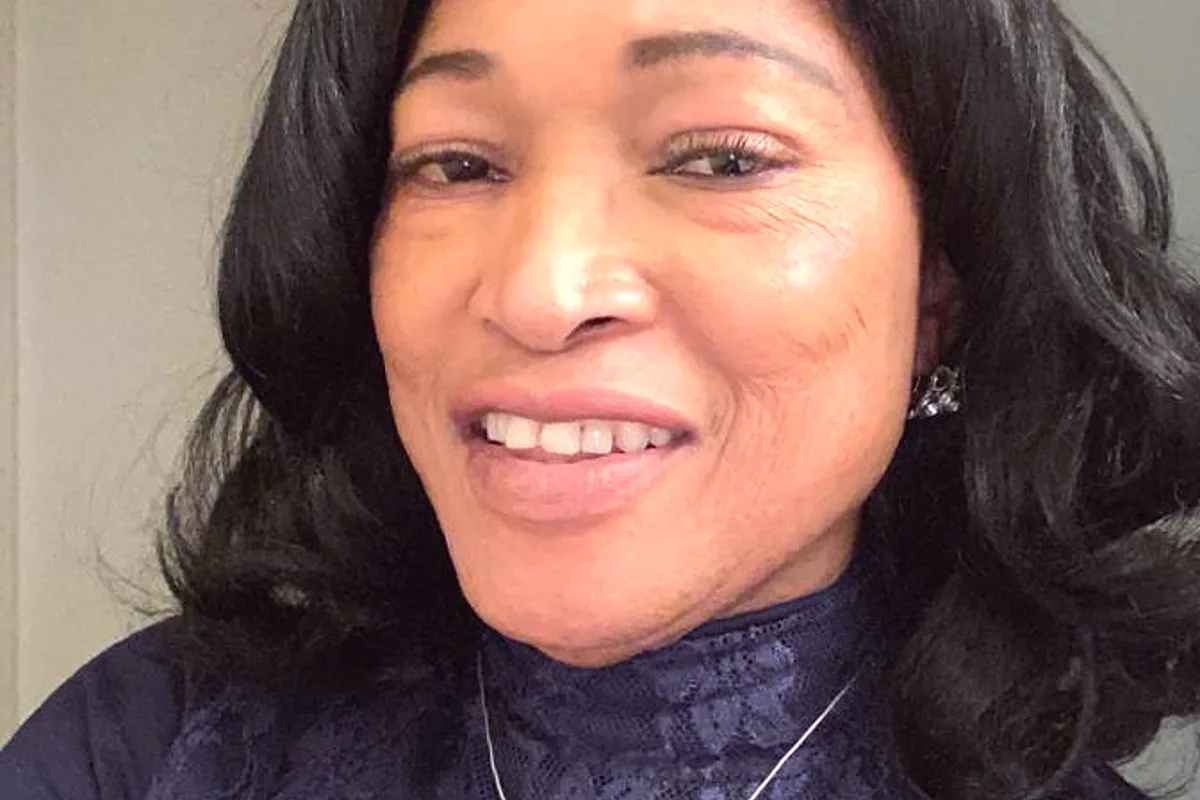
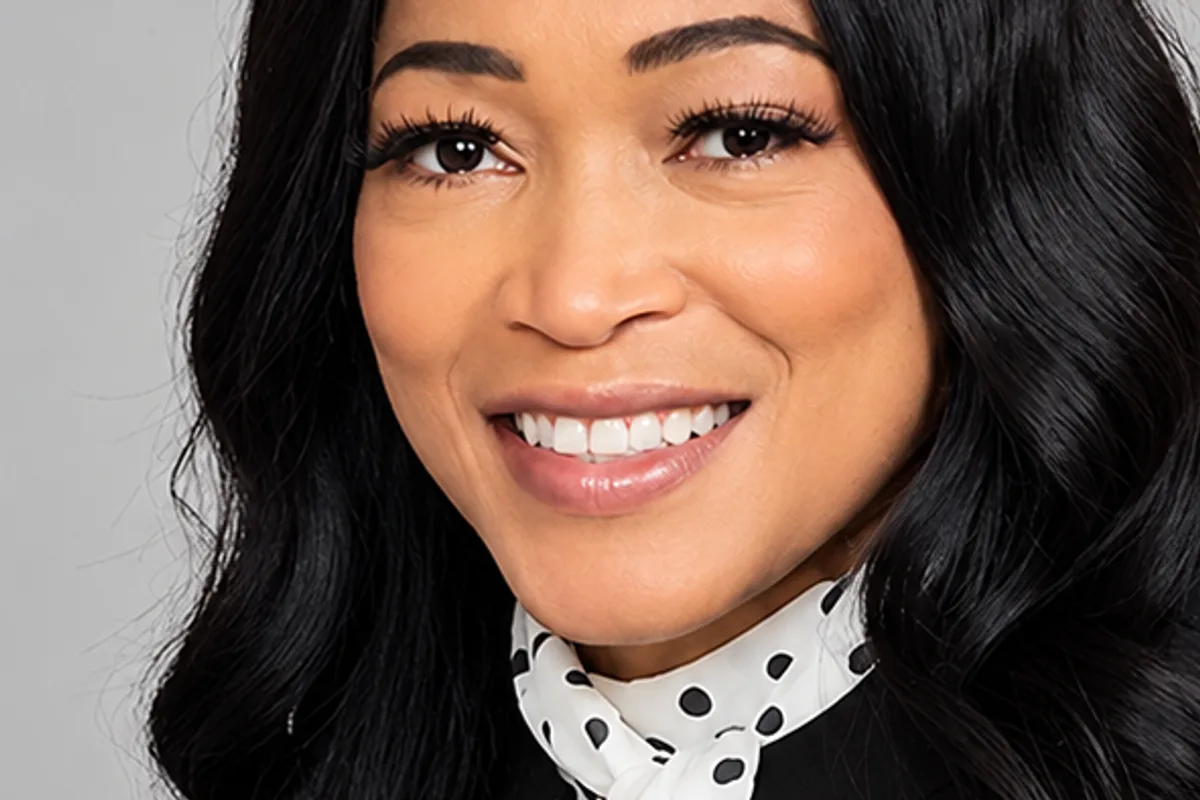
content: replace Funmilayo Whitaker's portrait with her studio photo
New 1122x1402 studio portrait supplied by the client, 2026-10-19. Replaces
the selfie in all six provider files (560/1120 squares as webp and jpg,
600/1200 3:2 cards). The cards keep the existing framing, eye-line at about
18% and matched head size, so they still pair with Anastasia's card.

Alt text, filenames and markup unchanged. OPEN_CLIENT_ITEMS reshoot item
marked half done; Providers.tsx notes why her card is still cut tight.

diff --git a/lib/content.ts b/lib/content.ts
@@ -2802,7 +2802,7 @@ export const OPEN_CLIENT_ITEMS = [
   'Service-section footage. Every card on the homepage services section currently reuses the hero clip, which shows a person in a meadow. On a behavioral-health service tile that reads as an implied treatment outcome, which is the same category as a testimonial. Replacement clips must not depict a patient or imply an outcome',
   'Optional upgrade only, no longer a gap: written permission or brand assets for insurer logos, if the practice ever wants payer marks instead of the typographic wall',
   'Patient testimonials with documented consent, if the practice wants them later',
-  'Reshoot of both provider portraits at 2000px or more with headroom, to unlock the deferred hero treatment',
+  'Reshoot of both provider portraits at 2000px or more with headroom, to unlock the deferred hero treatment. HALF DONE, 2026-10-19: a studio portrait of Funmilayo Whitaker arrived and replaced her selfie (the 560/1120 squares and the 600/1200 cards). It has headroom but is 1122x1402, under the 2000px asked for, so the cards are upscaled about 2x to keep head size matched with Anastasia. Still needed: Anastasia Ofoegbu\'s portrait, and Whitaker\'s original at full resolution if one exists',
 ] as const;
 
 /* ------------------------------------------------------------------------- *

diff --git a/components/sections/Providers.tsx b/components/sections/Providers.tsx
@@ -109,6 +109,10 @@ function assertSourced(slug: string, bio: string[]): string {
  * selfies. Framing them to keep the crown drops the eye-line far enough to push
  * the face behind the text block and breaks the matched head size. Not fixable
  * by cropping; it needs the reshoot already listed in OPEN_CLIENT_ITEMS.
+ *
+ * WHITAKER'S IS NOW A STUDIO PORTRAIT (2026-10-19) and has the headroom, but
+ * her card is still cut to the same eye-line and head size as Anastasia's so
+ * the pair matches. Loosen both together once Anastasia's reshoot lands.
  */
 function cardImage(slug: string) {
   return {
